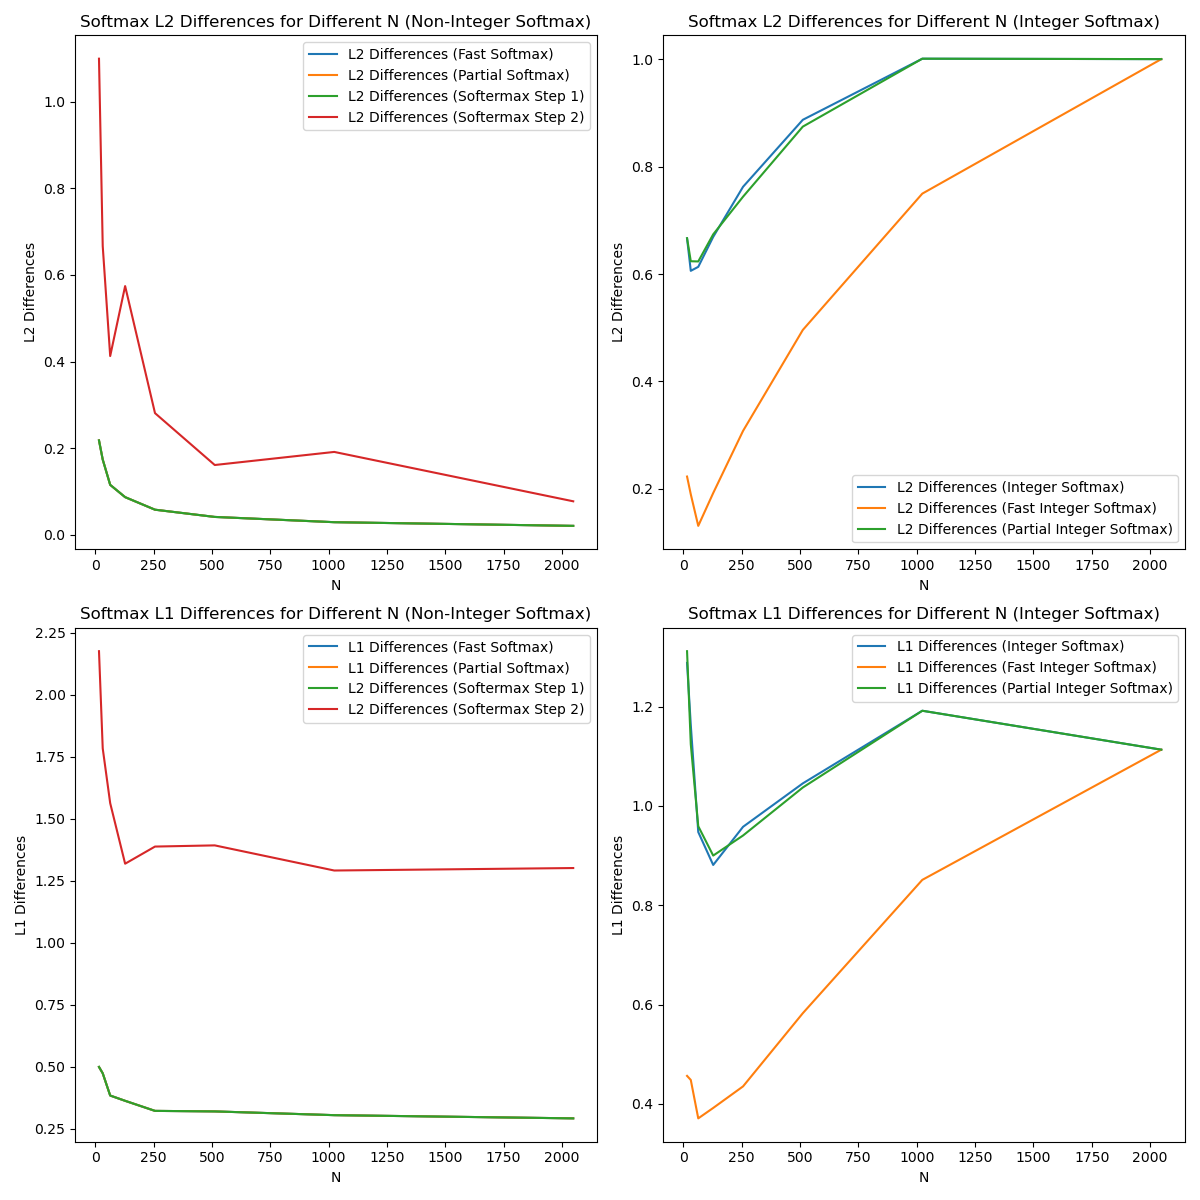
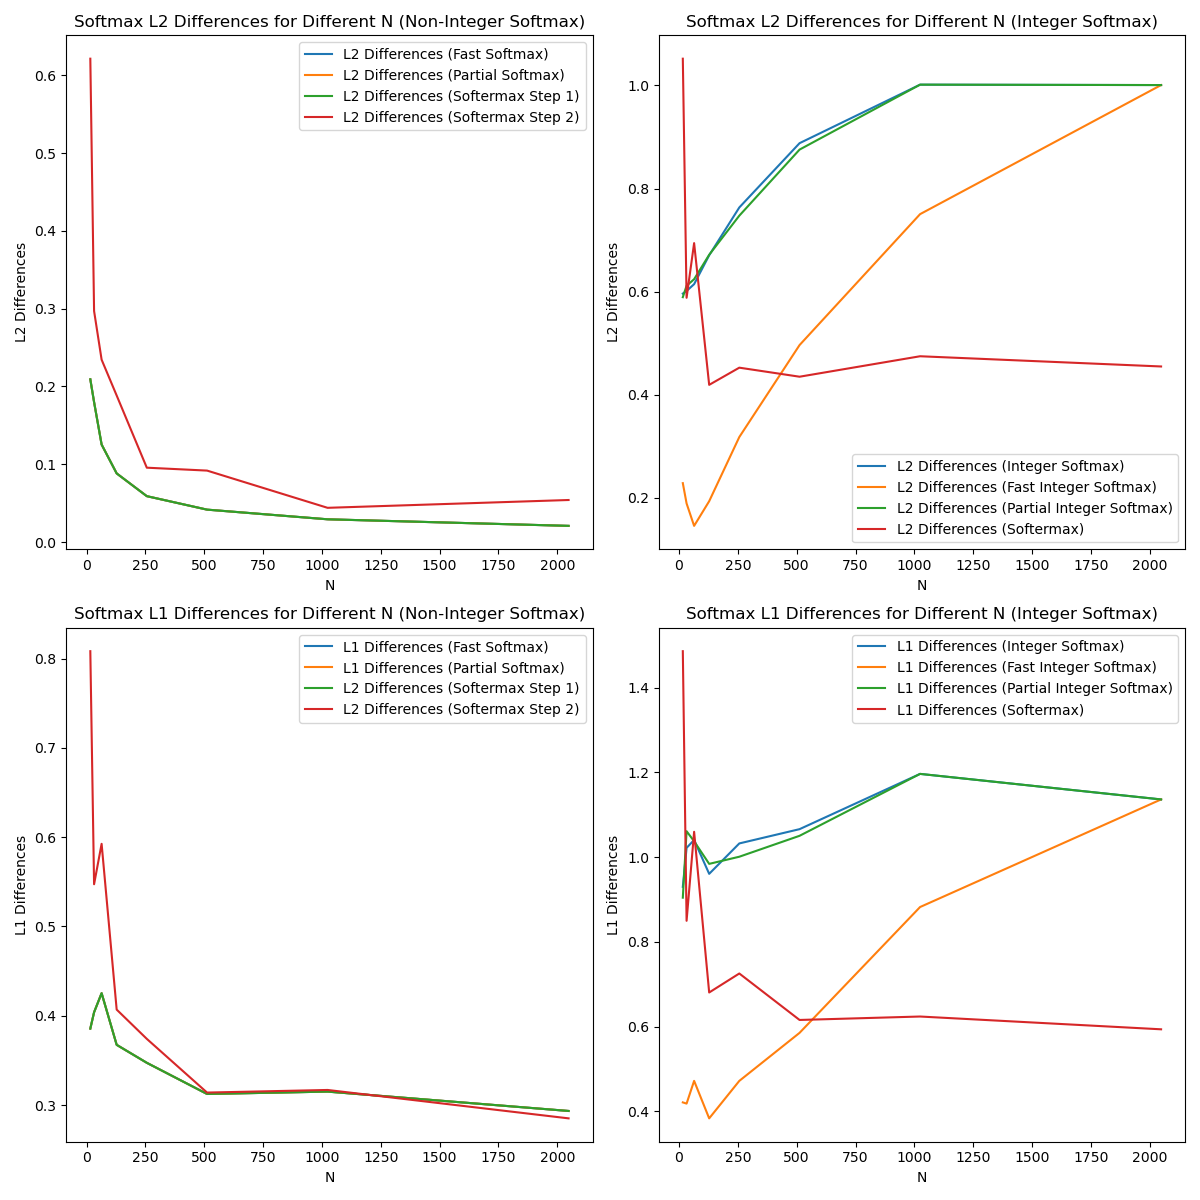
Updates to evaluation_quantlib

diff --git a/differences.py b/differences.py
@@ -1,13 +1,12 @@
 # ----------------------------------------------------------------------
 #
-# File: main.py
+# File: differences.py
 #
 # Last edited: 25.03.2024
 #
 # Copyright (C) 2024, ETH Zurich and University of Bologna.
 #
 # Author: Hannes Stählin (hstaehlin@ethz.ch), ETH Zurich
-#         Philip Wiese (wiesep@iis.ee.ethz.ch), ETH Zurich
 #
 # ----------------------------------------------------------------------
 # SPDX-License-Identifier: Apache-2.0
@@ -25,10 +24,11 @@
 # limitations under the License.
 
 import numpy as np
-from softmax_golden import fastSoftmax, realSoftmax, streamingPartialSoftmax, softermaxStep1, softermaxStep2
+from softmax_golden import fastSoftmax, realSoftmax, streamingPartialSoftmax, softermaxStep1, softermaxStep2, softermaxStep3
+import time
 import matplotlib.pyplot as plt
 
-def util_main(**kwargs):
+def run_softmax_comparisons(**kwargs):
     
 
     def calculate_differences(N_range):
@@ -53,22 +53,62 @@ def util_main(**kwargs):
         softermax_step2_l2_differences = []
         softermax_step2_l1_differences = []
 
+        softermax_l2_differences = []
+        softermax_l1_differences = []
+
         for N in N_range:
             A = np.random.randint(-128, 127, size=(1, N, N), dtype=np.int8)
             input_float = A * eps_max  # Assume eps is eps_max
             input_int = A
 
+            fast_softmax_start = time.time()
             fast_softmax = fastSoftmax(input_float, False)
+            fast_softmax_end = time.time()
+
+            fast_integer_softmax_start = time.time()
             fast_integer_softmax = fastSoftmax(input_int, True) / 255
+            fast_integer_softmax_end = time.time()
 
+            fast_partial_softmax_start = time.time()
             fast_partial_softmax = streamingPartialSoftmax(input_float, False)
+            fast_partial_softmax_end = time.time()
+
+            fast_partial_integer_softmax_start = time.time()
             fast_partial_integer_softmax = streamingPartialSoftmax(input_int, True) / 255
+            fast_partial_integer_softmax_end = time.time()
 
+            softmax_start = time.time()
             softmax = realSoftmax(input_float, False)
-            integer_softmax = realSoftmax(input_int, True) / 255
+            softmax_end = time.time()
 
+            integer_softmax_start = time.time()
+            integer_softmax = realSoftmax(input_int, True) / 255
+            integer_softmax_end = time.time()
+
+            softermax_step1_start = time.time()
             softermax_step1 = softermaxStep1(input_float, False)
+            softermax_step1_end = time.time()
+
+            softermax_step2_start = time.time()
             softermax_step2 = softermaxStep2(input_float, False)
+            softermax_step2_end = time.time()
+
+            softermax_start = time.time()
+            softermax = softermaxStep3(input_int, True) / 255
+            softermax_end = time.time()
+
+            print("###############")
+            print("N:", N)
+            print("Fast Softmax Time:", fast_softmax_end - fast_softmax_start)
+            print("Fast Integer Softmax Time:", fast_integer_softmax_end - fast_integer_softmax_start)
+            print("Fast Partial Softmax Time:", fast_partial_softmax_end - fast_partial_softmax_start)
+            print("Fast Partial Integer Softmax Time:", fast_partial_integer_softmax_end - fast_partial_integer_softmax_start)
+            print("Real Softmax Time:", softmax_end - softmax_start)
+            print("Real Integer Softmax Time:", integer_softmax_end - integer_softmax_start)
+            print("Softermax Step 1 Time:", softermax_step1_end - softermax_step1_start)
+            print("Softermax Step 2 Time:", softermax_step2_end - softermax_step2_start)
+            print("Softermax Time:", softermax_end - softermax_start)
+
 
             l2_diff = np.linalg.norm((softmax - fast_softmax)[0], 2)
             l1_diff = np.linalg.norm((softmax - fast_softmax)[0], 1)
@@ -84,6 +124,8 @@ def util_main(**kwargs):
             softermax_step1_l1_diff = np.linalg.norm((softmax - softermax_step1)[0], 1)
             softermax_step2_l2_diff = np.linalg.norm((softmax - softermax_step2)[0], 2)
             softermax_step2_l1_diff = np.linalg.norm((softmax - softermax_step2)[0], 1)
+            softermax_l2_diff = np.linalg.norm((softmax - softermax)[0], 2)
+            softermax_l1_diff = np.linalg.norm((softmax - softermax)[0], 1)
             
             l2_differences.append(l2_diff)
             l1_differences.append(l1_diff)
@@ -98,12 +140,14 @@ def util_main(**kwargs):
             softermax_step1_l2_differences.append(softermax_step1_l2_diff)
             softermax_step1_l1_differences.append(softermax_step1_l1_diff)
             softermax_step2_l2_differences.append(softermax_step2_l2_diff)
-            softermax_step2_l1_differences.append(softermax_step2_l1_diff)    
+            softermax_step2_l1_differences.append(softermax_step2_l1_diff)
+            softermax_l2_differences.append(softermax_l2_diff)
+            softermax_l1_differences.append(softermax_l1_diff)    
 
-        return l2_differences, l1_differences, partial_l2_differences, partial_l1_differences, integer_l2_differences, integer_l1_differences, fast_integer_l2_differences, fast_integer_l1_differences, partial_integer_l2_differences, partial_integer_l1_differences, softermax_step1_l2_differences, softermax_step1_l1_differences, softermax_step2_l2_differences, softermax_step2_l1_differences
+        return l2_differences, l1_differences, partial_l2_differences, partial_l1_differences, integer_l2_differences, integer_l1_differences, fast_integer_l2_differences, fast_integer_l1_differences, partial_integer_l2_differences, partial_integer_l1_differences, softermax_step1_l2_differences, softermax_step1_l1_differences, softermax_step2_l2_differences, softermax_step2_l1_differences, softermax_l2_differences, softermax_l1_differences
 
     N_range = [16,32,64, 128, 256, 512, 1024, 2048]
-    l2_differences, l1_differences, partial_l2_differences, partial_l1_differences, integer_l2_differences, integer_l1_differences, fast_integer_l2_differences, fast_integer_l1_differences, partial_integer_l2_differences, partial_integer_l1_differences, softermax_step1_l2_differences, softermax_step1_l1_differences, softermax_step2_l2_differences, softermax_step2_l1_differences = calculate_differences(N_range)
+    l2_differences, l1_differences, partial_l2_differences, partial_l1_differences, integer_l2_differences, integer_l1_differences, fast_integer_l2_differences, fast_integer_l1_differences, partial_integer_l2_differences, partial_integer_l1_differences, softermax_step1_l2_differences, softermax_step1_l1_differences, softermax_step2_l2_differences, softermax_step2_l1_differences, softermax_l2_differences, softermax_l1_differences = calculate_differences(N_range)
 
     print("Fast L2 Differences:", l2_differences)
     print("Fast L1 Differences:", l1_differences)
@@ -119,6 +163,9 @@ def util_main(**kwargs):
     print("Softermax Step 1 L1 Differences:", softermax_step1_l1_differences)
     print("Softermax Step 2 L2 Differences:", softermax_step2_l2_differences)
     print("Softermax Step 2 L1 Differences:", softermax_step2_l1_differences)
+    print("Softermax L2 Differences:", softermax_l2_differences)
+    print("Softermax L1 Differences:", softermax_l1_differences)
+
     plt.figure(figsize=(12, 12))
 
     plt.subplot(2, 2, 1)
@@ -135,6 +182,7 @@ def util_main(**kwargs):
     plt.plot(N_range, integer_l2_differences, label='L2 Differences (Integer Softmax)')
     plt.plot(N_range, fast_integer_l2_differences, label='L2 Differences (Fast Integer Softmax)')
     plt.plot(N_range, partial_integer_l2_differences, label='L2 Differences (Partial Integer Softmax)')
+    plt.plot(N_range, softermax_l2_differences, label='L2 Differences (Softermax)')
 
     plt.xlabel('N')
     plt.ylabel('L2 Differences')
@@ -155,6 +203,7 @@ def util_main(**kwargs):
     plt.plot(N_range, integer_l1_differences, label='L1 Differences (Integer Softmax)')
     plt.plot(N_range, fast_integer_l1_differences, label='L1 Differences (Fast Integer Softmax)')
     plt.plot(N_range, partial_integer_l1_differences, label='L1 Differences (Partial Integer Softmax)')
+    plt.plot(N_range, softermax_l1_differences, label='L1 Differences (Softermax)')
     plt.xlabel('N')
     plt.ylabel('L1 Differences')
     plt.title('Softmax L1 Differences for Different N (Integer Softmax)')
@@ -163,5 +212,5 @@ def util_main(**kwargs):
     plt.tight_layout()
     plt.savefig("plot.png")
 
-
-util_main()
+if __name__ == "__main__":
+  run_softmax_comparisons()

diff --git a/softmax_golden.py b/softmax_golden.py
@@ -280,8 +280,8 @@ def softermaxStep2(A_requant, integerize = True):
                     exp_result[i, j, k] = 1
                     sum = exp_result[i, j, k]
                 else:
-                    exp_result[i, j, k] = 2 ** (max_values[i, j, k-1] - max_values[i, j, k])
-                    sum = exp_result[i, j, k] + sum * 2 ** (max_values[i, j, k] - max_values[i, j, k - 1])
+                    exp_result[i, j, k] = 2 ** (x[i, j, k] - max_values[i, j, k])
+                    sum = exp_result[i, j, k] + sum * 2 ** (max_values[i, j, k-1] - max_values[i, j, k])
 
     #ÇNormalize the exponential values to get the softmax probabilities
     # Loop over each head
@@ -290,12 +290,71 @@ def softermaxStep2(A_requant, integerize = True):
         for j in range(x.shape[1]):
             # Loop over each element in the row
             for k in range(x.shape[2]):
-                exp_result[i, j, k] = exp_result[i, j, k]* 2**(max_values[i, j, k] - max_values[i, j, -1]) / sum
+                exp_result[i, j, k] = (exp_result[i, j, k]* 2**(max_values[i, j, k] - max_values[i, j, -1])) / sum
 
 
     # Normalize the exponential values to get the softmax probabilities
     if integerize:
         # Scale the probabilities to the range [0, 2^7 - 1]
         return  exp_result * (2**7 - 1).astype(A_requant.dtype)
+    else:
+        return exp_result
+    
+def softermaxStep3(A_requant, integerize = True):
+    # Get the number of heads
+    n_heads = A_requant.shape[-3]
+
+    # Define the number of bits
+    B = 8
+
+    # Calculate the logarithm of the base e
+    log2e = np.log2(np.exp(1))
+
+    # Calculate the scaling factor
+    eps_x = B / (2**B * log2e)
+
+    # Scale the input values if integerize is True
+    if integerize:
+        x = A_requant * eps_x
+    else:
+        x = A_requant.astype(np.float64)
+    
+    max_values = -np.inf * np.ones((n_heads, x.shape[1], x.shape[2]))
+    exp_result = np.zeros((n_heads, x.shape[1], x.shape[2]))
+    sum = 0
+    
+    # Calculate the exponential values
+    # Loop over each head
+    for i in range(n_heads):
+        # Loop over each row
+        for j in range(x.shape[1]):
+            # Loop over each element in the row
+            max_val = x[i, j, 0]
+            for k in range(x.shape[2]):
+                # Calculate the exponentiation
+                if x[i, j, k] > max_val:
+                    max_val = x[i, j, k]
+                max_values[i, j, k] = int(max_val)
+                if(k==0):
+                    exp_result[i, j, k] = 1
+                    sum = exp_result[i, j, k]
+                else:
+                    exp_result[i, j, k] = 2 ** (x[i, j, k] - max_values[i, j, k])
+                    sum = int(exp_result[i, j, k] + sum) >> int(max_values[i, j, k] - max_values[i, j, k-1])
+
+    #Normalize the exponential values to get the softmax probabilities
+    # Loop over each head
+    for i in range(n_heads):
+        # Loop over each row
+        for j in range(x.shape[1]):
+            # Loop over each element in the row
+            for k in range(x.shape[2]):
+                exp_result[i, j, k] = (int(exp_result[i, j, k]) >> int(max_values[i, j, -1] - max_values[i, j, k]) )/ sum
+
+
+    # Normalize the exponential values to get the softmax probabilities
+    if integerize:
+        # Scale the probabilities to the range [0, 2^7 - 1]
+        return  exp_result * (2**7 - 1)
     else:
         return exp_result

diff --git a/evaluations_quantlib.py b/evaluations_quantlib.py
@@ -1,0 +1,81 @@
+# ----------------------------------------------------------------------
+#
+# File: evaluations_quantlib.py
+#
+# Last edited: 25.03.2024
+#
+# Copyright (C) 2024, ETH Zurich and University of Bologna.
+#
+# Author: Hannes Stählin (hstaehlin@ethz.ch), ETH Zurich
+#
+# ----------------------------------------------------------------------
+# SPDX-License-Identifier: Apache-2.0
+#
+# Licensed under the Apache License, Version 2.0 (the License); you may
+# not use this file except in compliance with the License.
+# You may obtain a copy of the License at
+#
+# www.apache.org/licenses/LICENSE-2.0
+#
+# Unless required by applicable law or agreed to in writing, software
+# distributed under the License is distributed on an AS IS BASIS, WITHOUT
+# WARRANTIES OR CONDITIONS OF ANY KIND, either express or implied.
+# See the License for the specific language governing permissions and
+# limitations under the License.
+
+import torch
+import numpy as np
+from quantlib.algorithms.pact.pact_ops import (PACTITAMax,
+                                               PACTSoftmax,
+                                               PACTIntegerSoftmax)
+
+
+def run_softmax_comparisons(num_iterations=1):
+  """
+  Runs softmax comparisons with different random inputs and prints results.
+
+  Args:
+      num_iterations: Number of iterations to run the comparison (default: 10).
+  """
+  for _ in range(num_iterations):
+    N = 1024
+
+    # Generate different random input variants:
+    input_variants = [
+        # Uniform distribution 
+        ["Random",torch.rand(1, N, N) * 255 - 128],
+        # Normal distribution 
+        ["Normal",torch.randn(1, N, N)],
+        # Sparse inputs with most values near 0
+        ["Sparse",torch.randint(-5, 5, size=(1, N, N), dtype=torch.float32) ],
+    ]
+
+    for input_data in input_variants:
+      input = input_data[1].unsqueeze(0).float()
+
+      ITAMax = PACTITAMax()
+      Softmax = PACTSoftmax()
+      IntegerSoftmax = PACTIntegerSoftmax()
+
+      ITAmax_softmax = ITAMax.forward(input).detach().numpy().squeeze(axis=0)
+      softmax = Softmax.forward(input).detach().numpy().squeeze(axis=0)
+      integer_softmax = IntegerSoftmax.forward(input).detach().numpy().squeeze(axis=0)
+      ITAMax.started = torch.tensor(1)
+
+      log2e = np.log2(np.exp(1))
+      eps = 8 / (2**8*log2e)
+      ITAMax.set_eps_in(torch.tensor((eps, )))
+      ITAMax_fake_quantized = ITAMax.forward(input).detach().numpy().squeeze(axis=0)
+
+      print(f"\nInput Variant: {input_data[0]}")
+      print(f"Softmax shape: {softmax.shape}")
+
+      print(f" L2 Softmax Differences:")
+      print(f"  Real Softmax              - ITAMax Softmax                  : {np.linalg.norm(softmax[0] - ITAmax_softmax[0], 2):.10}")
+      print(f"  Real Softmax              - ITAMax Fake Quantized Softmax    : {np.linalg.norm(softmax[0] - ITAMax_fake_quantized[0], 2):.10}")
+      print(f"  Real Softmax              - Integer Softmax                 : {np.linalg.norm(softmax[0] - integer_softmax[0], 2):.10}")
+
+
+if __name__ == "__main__":
+  run_softmax_comparisons()
+

diff --git a/philip.py b/philip.py
@@ -81,7 +81,7 @@ def util_main(**kwargs):
         import torch
         from quantlib.algorithms.pact.pact_ops import (
             PACTIntegerITAMax, PACTIntegerITAPartialMax, PACTITAMax,
-            PACTITAPartialMax)
+            PACTITAPartialMax,PACTIntegerSoftmax)
         input = torch.tensor(input_float).unsqueeze(0).float()
 
         ITAMax = PACTITAMax()
@@ -104,8 +104,6 @@ def util_main(**kwargs):
             None, input, torch.tensor(256)).detach().numpy().squeeze(axis=0)
         ITAPartialIntegerMax_softmax = PACTIntegerITAMax.MySoftmax.forward(
             None, input, torch.tensor(256)).detach().numpy().squeeze(axis=0)
-
-        print()
         print(f"=> L2 PyTorch Softmax Differences:")
         print(
             f"  Fast Softmax                 - ITAmax                       : {np.linalg.norm((fast_softmax-ITAmax_softmax)[0], 2):.3}"
